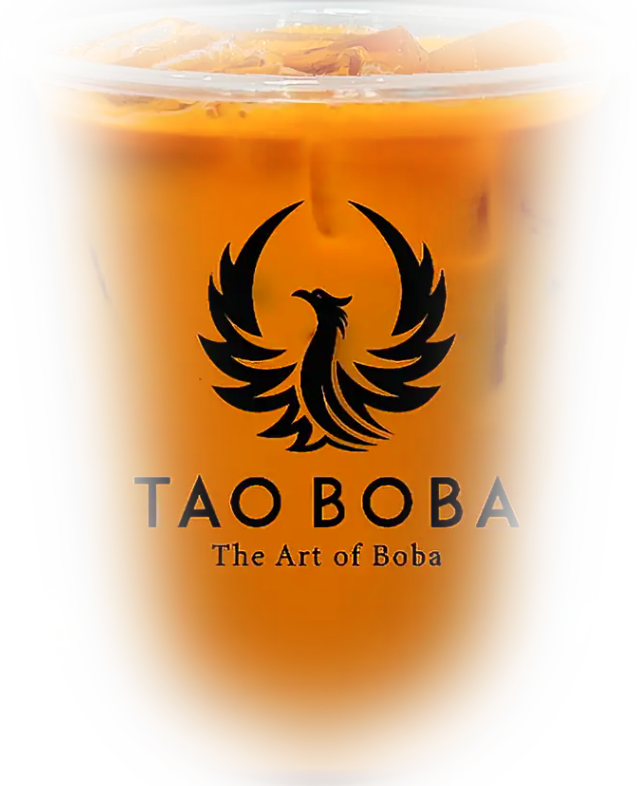
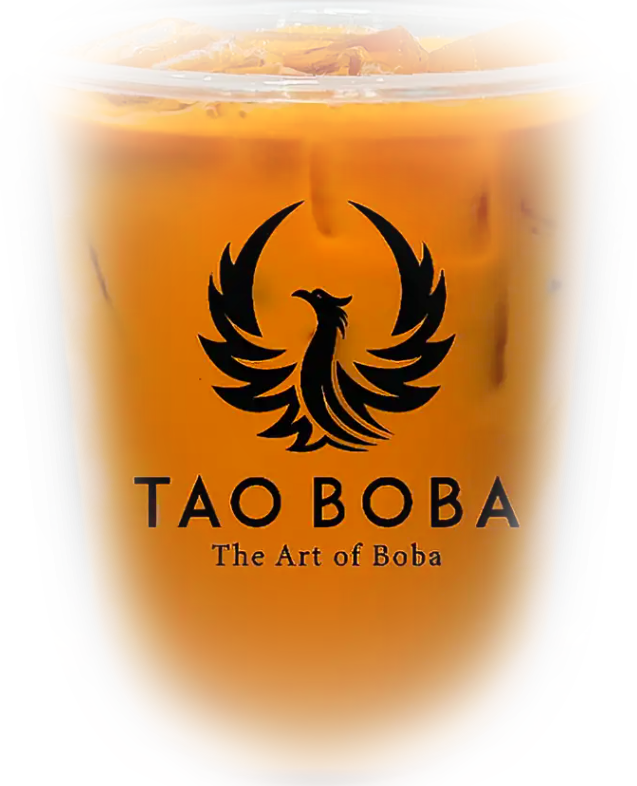
Update architecture documentation and refresh project assets
Replit-Commit-Author: Agent

diff --git a/.agents/memory/tao-boba-architecture.md b/.agents/memory/tao-boba-architecture.md
@@ -1,6 +1,6 @@
 ---
 name: Tao Boba homepage architecture
-description: Core decisions for the Tao Boba React/Vite homepage — cup engine, scroll system, and glow approach
+description: Core decisions for the Tao Boba React/Vite homepage — cup engine, scroll system, and edge treatment
 ---
 
 ## Cup swap engine
@@ -20,22 +20,27 @@ description: Core decisions for the Tao Boba React/Vite homepage — cup engine,
 - 130ms fade-out window before DOM update; stale-capture guard: `if (currentIdx.current !== captured) return`
 - First load (currentIdx === -1) skips animation
 
-## Cup image glow (CSS only, no JS)
-- Pure white 5-layer `drop-shadow` on `.cup-wrap img`
-- Layers: 2px / 10px / 24px / 48px / 80px, white at full→0.35 opacity
-- Purpose: dissolves hard PNG cutout edge into the tinted stage background
-- **Keep it pure white — no color-mix, no drink-color tinting** (user confirmed)
-- Applied in two CSS blocks: base rule (~line 324) and one breakpoint override (~line 908)
+## Cup image edge treatment (CSS + PNG pipeline)
+- CSS filter on `.cup-wrap img`: two tiny `drop-shadow` in page cream color (6px + 18px) + contrast + saturate
+- **No glow layer, no duplicate image** — previous attempts with blurred duplicate caused white blob
+- Edge quality comes from ImageMagick pre-processing on the PNG files
 
-## PNG processing pipeline (ImageMagick)
-- Background removal: AI tool first, then `magick -channel Alpha -blur 0x2.0 -level 12%,88%`
-- Edge feathering: `magick input.png ( +clone -channel Alpha -separate -morphology Dilate Disk:1.5 -blur 0x2.5 -level 3%,97% ) -alpha off -compose CopyOpacity -composite output.png`
-- Safe ops: `-channel Alpha -blur`, `-level`, `-morphology Dilate`, `CopyOpacity` (confirmed working)
-- Unsafe: Multiply gradient (breaks transparency per earlier sessions)
+## PNG edge pipeline (applied in sequence, cumulative)
+1. AI background removal
+2. `magick -channel Alpha -blur 0x2.0 -level 12%,88%` — initial alpha smoothing
+3. `magick ( +clone -channel Alpha -separate -morphology Dilate Disk:1.5 -blur 0x2.5 -level 3%,97% ) -alpha off -compose CopyOpacity -composite` — edge feathering outward
+4. `magick -channel Alpha -morphology Erode Disk:10 -blur 0x10 +channel` — fog pass 1
+5. `magick -channel Alpha -morphology Erode Disk:22 -blur 0x20 +channel` — fog pass 2
+6. `magick -channel Alpha -morphology Erode Disk:40 -blur 0x35 +channel` — fog pass 3
+7. **Pre-blend toward cream**: `magick cup.png ( +clone -background '#f6f1e8' -flatten ) ( -clone 0 -alpha extract ) -compose CopyOpacity -composite output.png`
+
+**Why step 7 is critical**: Alpha erosion leaves semi-transparent dark pixels at edges. On a light background they show as a dark ghost fringe. Pre-blending shifts edge pixel *colours* toward the background cream, so they become invisible when rendered — no dark halo.
+
+**Rule**: after any alpha erosion on dark cups, always run the pre-blend step with the actual stage/page background color.
 
 ## Active cup files
-- `taro-boba-smooth.png` — Ube Latte
+- `taro-boba-smooth.png` — Ube Latte (tint: #f0eaf7, tone: #6b3fa0)
 - `thai-tea-clean.png` — Thai Tea
-- `matcha-boba-clean2.png` — Matcha Latte
+- `matcha-boba-clean2.png` — Matcha Latte (has dark boba at bottom — most prone to dark fringe)
 - `mango-boba-clean.png` — Passion Fruit Green Tea
 - `cloud-green-tea-clean-final.png` — Strawberry Matcha Latte
